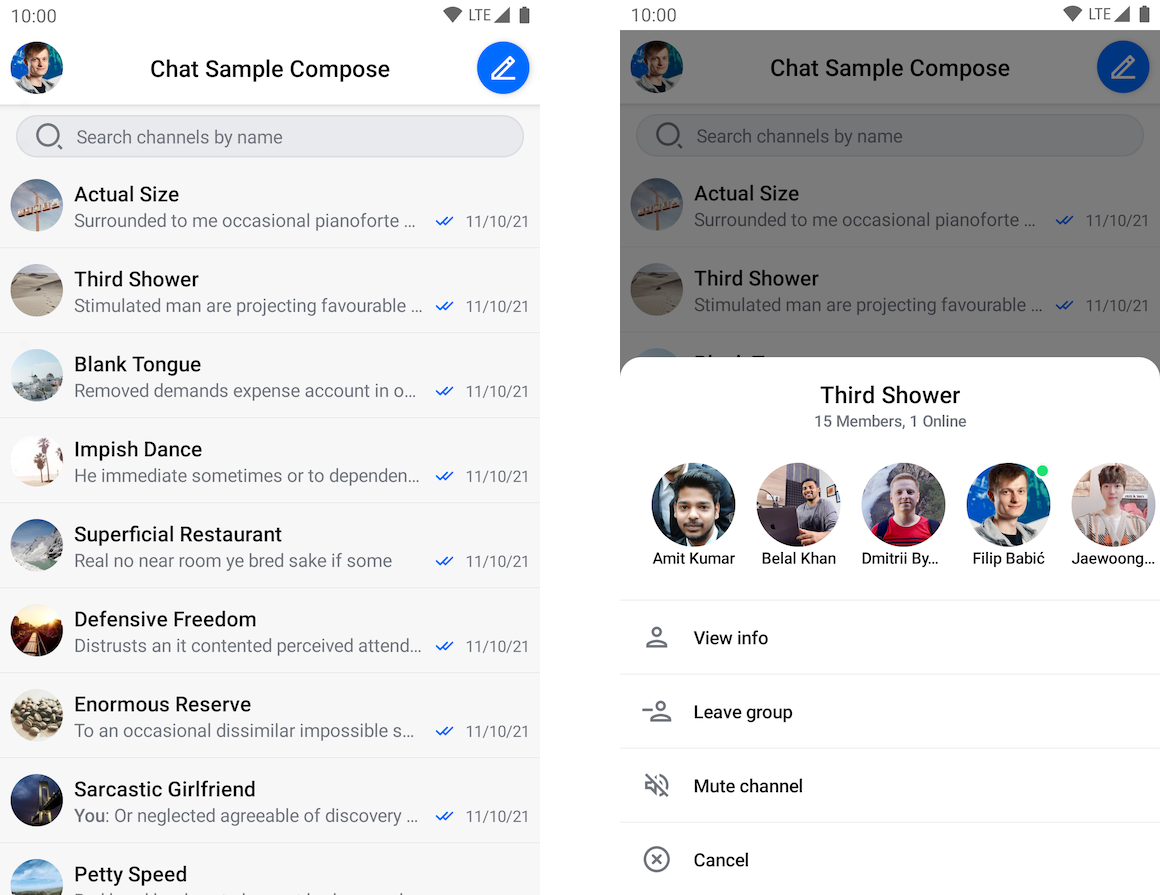
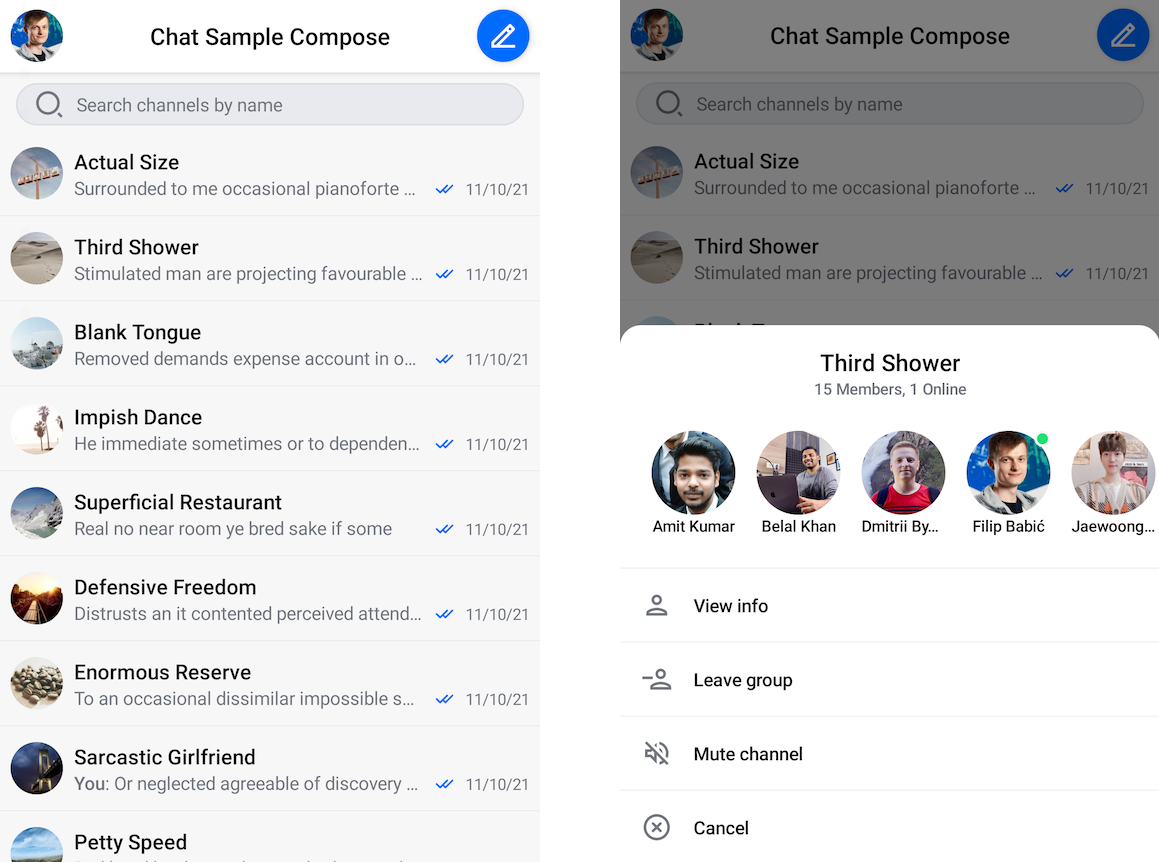
[2780] Update Component Architecture docs (#2834)
* [2778] Update Component Architecture docs

* [2780] Replace screenshot containing broken avatar renders

* [2780] Update Component Architecture docs

* [2780] Replace screenshot containing broken avatar renders

* [2780] Updated the Changelog

* Minor doc cleanup

diff --git a/CHANGELOG.md b/CHANGELOG.md
@@ -95,6 +95,7 @@ Consider migrating to `stream-chat-android-ui-components` or `stream-chat-androi
 - Updated [ChannelsScreen documentation](https://getstream.io/chat/docs/sdk/android/compose/channel-components/channels-screen/). [#2839](https://github.com/GetStream/stream-chat-android/pull/2839)
 - Updated [ChannelItem documentation](https://getstream.io/chat/docs/sdk/android/compose/channel-components/channel-item/). [#2832](https://github.com/GetStream/stream-chat-android/pull/2832)
 - Updated [ChannelListHeader documentation](https://getstream.io/chat/docs/sdk/android/compose/channel-components/channel-list-header/). [#2828](https://github.com/GetStream/stream-chat-android/pull/2828)
+- Updated [Component Architecture documentation](https://getstream.io/chat/docs/sdk/android/compose/component-architecture/). [#2834](https://github.com/GetStream/stream-chat-android/pull/2834)
 
 ### ❌ Removed
 
